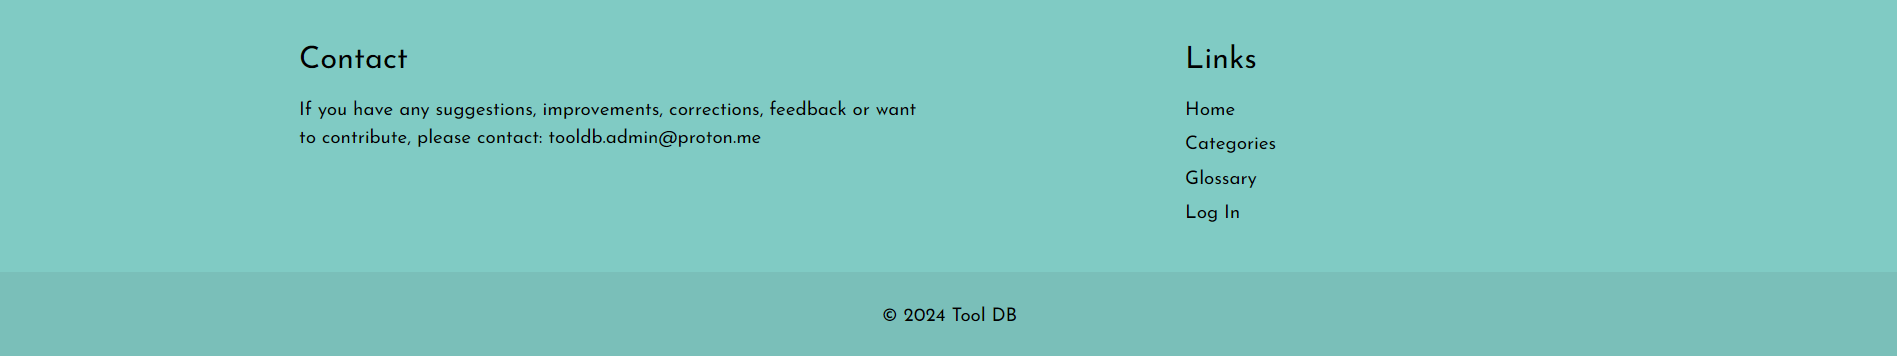
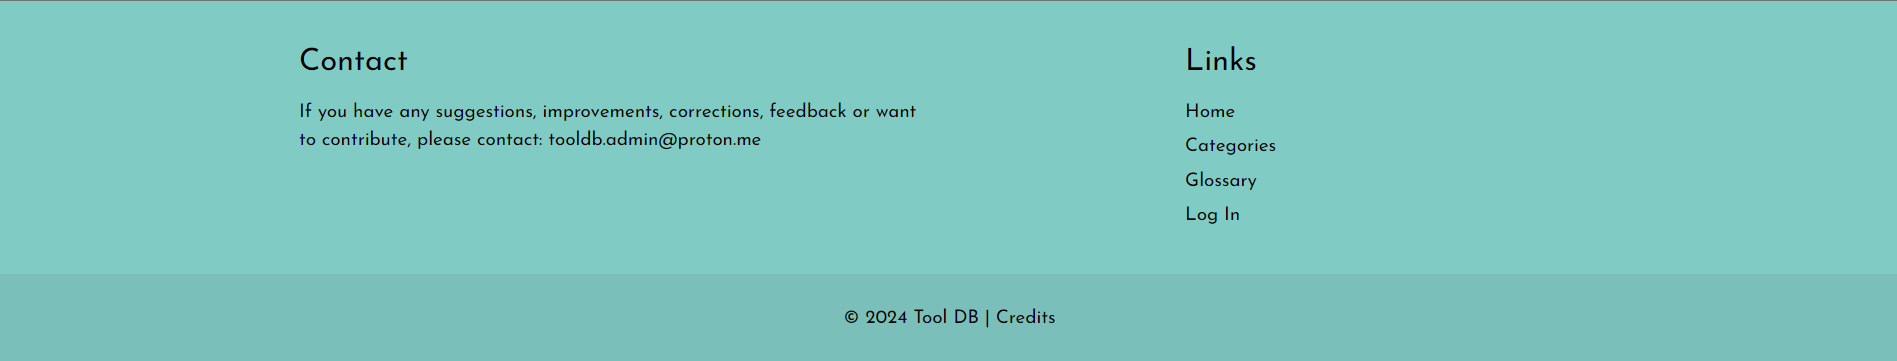
Changed credit layout to full width and added new footer images to readme

diff --git a/tool_db/templates/credits.html b/tool_db/templates/credits.html
@@ -16,7 +16,7 @@
         <h3 class="white-text center-align" role="heading" aria-level="3">Credits and Sources</h3>
     </heading>
     <div class="row content-wrapper">
-        <div class="col s12 m8 offset-m2 white">
+        <div class="col s12 white">
             <ul>
                 <li>
                     <p>

diff --git a/README.md b/README.md
@@ -45,6 +45,7 @@ Visit the deployed site <a href="https://tool-db-72501f8e2b40.herokuapp.com/" ta
   * [Favicon](#favicon)
   * [Navbar](#navbar)
   * [Footer](#footer)
+  * [Credits Page](#credits-page)
   * [Home Page](#home-page)
   * [Categories](#categories)
   * [Tools](#tools)
@@ -544,6 +545,15 @@ Logged in:
 The footer links move to inline style on smaller screens and the footer also contains a contact email address for the site admin and also copyright information.
 
 ![user footer small](tool_db/static/images/user-footer-small.png)
+
+<br>
+
+## Credits Page
+
+The credits for the tool descriptions are all listed on the credits page which can be accessed via the credits link in the footer:
+
+
+
 <br>
 
 ## Home Page
